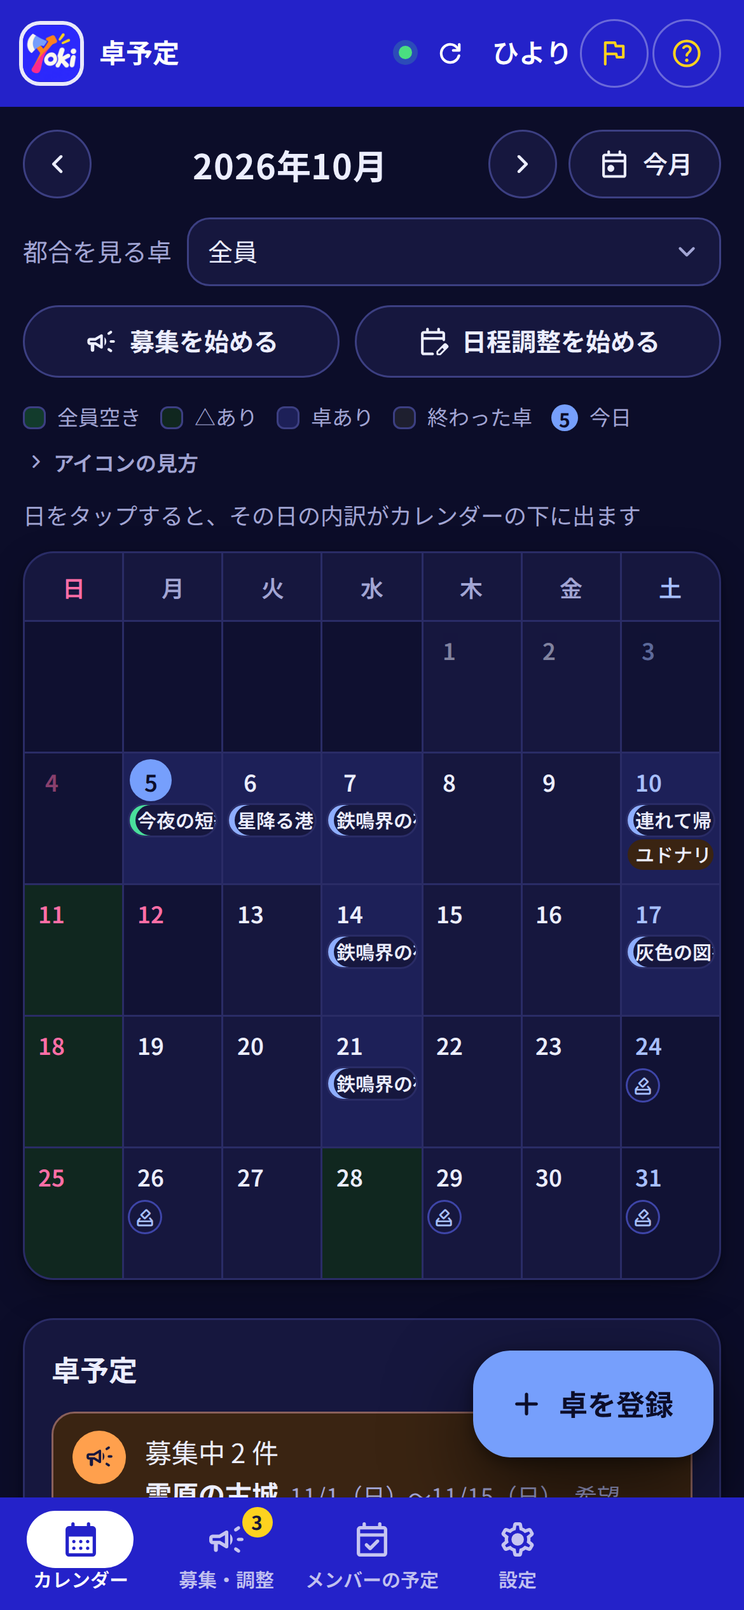
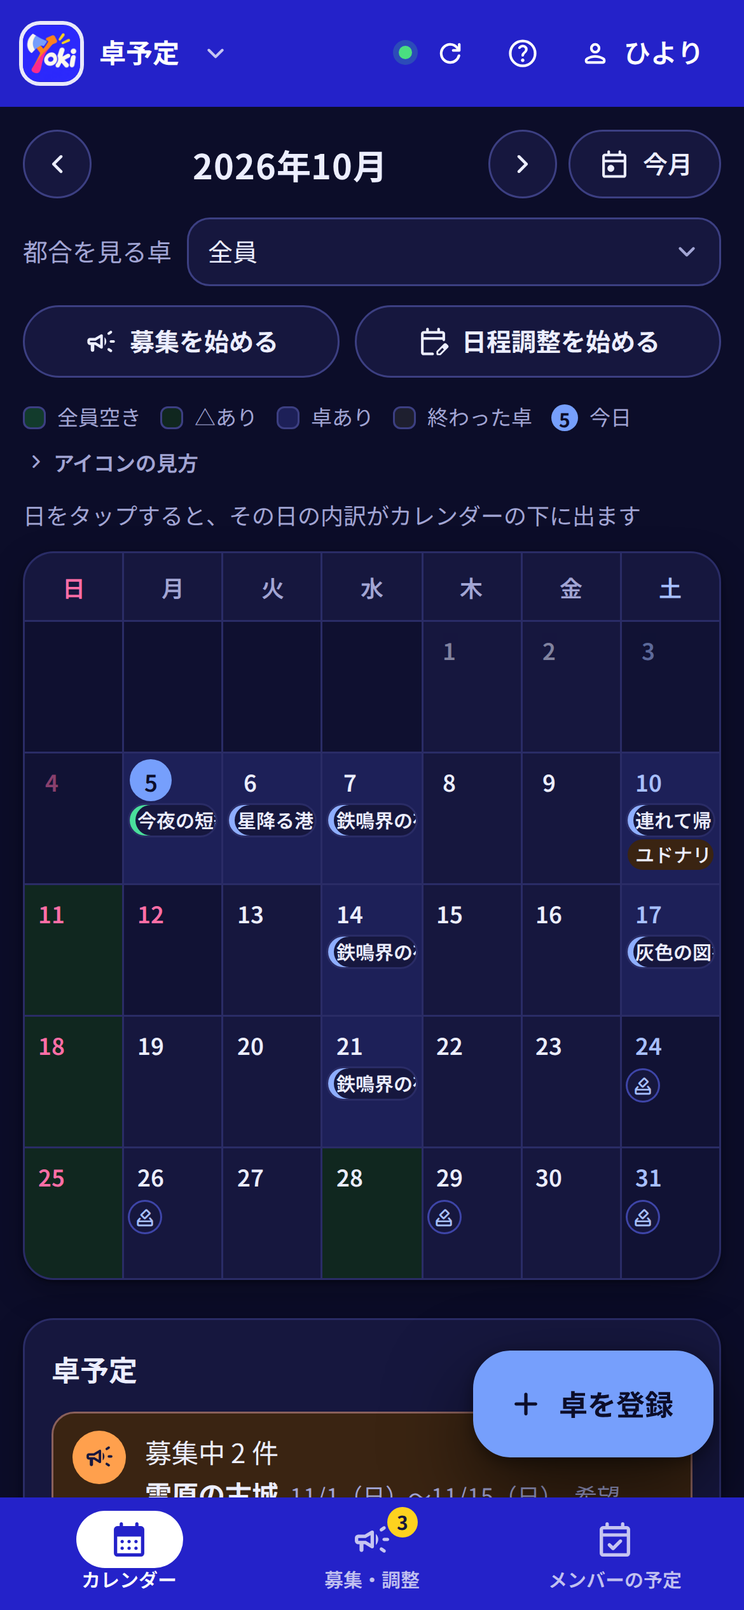
feat(client): 上の帯の操作を、グループ・ヘルプ・あなたの 3 つのメニューにまとめる
- タブはカレンダー・募集・調整・メンバーの予定の 3 つだけにする。画面の切り替え・開け閉め・別の画面へのリンク・外のページへのリンクが、同じ見た目で並んでいたため
- グループの名前を押すと、グループの一覧と管理画面（管理者だけ）が出る
- ヘルプには、はじめの 3 ステップと使い方を入れる。3 ステップが済むまでは、ヘルプのボタンに印を付ける
- 自分の名前を押すと、設定・ライトとダーク・ログアウトが出る。設定の画面を開いているあいだは、押してある見た目にする
- メニューは ui/Menu.tsx の 1 つの部品にする（外を押す・Esc・Tab で閉じる。↑↓・Home・End で項目を移る）
- e2e は、設定・見た目・管理画面への入口をメニューから開くように直し、ヘルプのメニューとはじめの 3 ステップの出し入れを足す
- スクリーンショットを撮り直す

diff --git a/src/client/features/console/shell/Header.tsx b/src/client/features/console/shell/Header.tsx
@@ -1,12 +1,14 @@
-// 上の帯（グループの名前・管理の札・予定の画面へ・読み込んだ時刻と更新・あなた・はじめの 3 ステップ・使い方・見た目・ログアウト）とタブ
+// 上の帯とタブ。帯の操作は、だれのことかで 3 つのメニューにまとめる。
+// グループの名前（グループの一覧・管理画面）、ヘルプ（はじめの 3 ステップ・使い方）、あなた（設定・見た目・ログアウト）。タブはふだんの 3 画面だけ
 import { Link } from '@tanstack/react-router';
 import type { ConsoleData } from '../../../../shared/api';
 import { HELP_URL } from '../../../app/links';
 import { currentTheme, setTheme, themeStore } from '../../../app/theme';
-import { actions, appbar, areaBadge, brand, btxt, hbtn, hbtnIcon, logo } from '../../../ui/chrome';
+import { actions, appbar, areaBadge, brand, btxt, hbtn, hbtnIcon, logo, menuItem, menuSep } from '../../../ui/chrome';
 import { askConfirm } from '../../../ui/confirm';
 import { Icon } from '../../../ui/Icon';
 import type { IconName } from '../../../ui/icons';
+import { Menu } from '../../../ui/Menu';
 import { useStore } from '../../../ui/store';
 import type { SyncView } from '../api/sync';
 import { type Tab, useConsole, useMaybeData } from '../context';
@@ -18,7 +20,6 @@ const TABS: [MainTab, IconName, string][] = [
   ['cal', 'calendar_month', 'カレンダー'],
   ['recruit', 'campaign', '募集・調整'],
   ['avail', 'event_available', 'メンバーの予定'],
-  ['settings', 'settings', '設定'],
 ];
 
 /** 読み込んだ時刻の見た目。前の丸は、自動更新しているあいだは緑、読めなかったら赤。狭い画面では丸だけ */
@@ -42,9 +43,6 @@ const tabBtn = 'relative inline-flex flex-[0_0_auto] cursor-pointer items-center
   + 'max-sm:h-auto max-sm:min-w-0 max-sm:flex-col max-sm:gap-2 max-sm:rounded-none max-sm:px-2 max-sm:pt-4 max-sm:pb-0 max-sm:text-[clamp(10px,2.5vw,12px)] max-sm:bg-transparent! '
   + 'max-sm:before:absolute max-sm:before:top-0 max-sm:before:left-1/2 max-sm:before:-ml-28 max-sm:before:h-30 max-sm:before:w-56 max-sm:before:rounded-[15px] max-sm:before:content-[""] '
   + 'max-sm:before:transition-[background-color] max-sm:before:duration-(--dur-fast) max-sm:before:ease-out ';
-/** タブの並びの続き（はじめの 3 ステップ・管理・使い方）。スマホでは隠す（上の帯のボタンに替える） */
-const tabHelp = 'ml-6 inline-flex h-36 items-center gap-6 whitespace-nowrap rounded-full border border-chrome-field-line px-14 py-0 font-semibold text-chrome-text no-underline '
-  + 'transition-[background-color] duration-(--dur-fast) ease-out hover:bg-chrome-hover max-sm:hidden! ';
 /** 押してある（出している）ときのアイコン（塗りつぶす） */
 const filled = '[font-variation-settings:"FILL"_1]';
 
@@ -59,6 +57,10 @@ export function useLogout(): () => void {
   });
 }
 
+/** グループの名前のボタン（押すとグループのメニュー）。名前が長ければ切る */
+const brandBtn = 'min-w-0 max-w-full cursor-pointer rounded-full border-0 bg-transparent py-2 pr-8 pl-2 -ml-2 text-left font-inherit '
+  + 'transition-[background-color] duration-(--dur-fast) ease-out hover:bg-chrome-hover aria-expanded:bg-chrome-hover';
+
 export function Header({ tab }: { tab: Tab }) {
   const { sync, ui, groupId, area } = useConsole();
   const admin = area === 'admin';
@@ -70,31 +72,37 @@ export function Header({ tab }: { tab: Tab }) {
   const logout = useLogout();
   const dark = currentTheme() === 'dark';
   const shown = d ? guideShown(d, guide) : false;
-  /** 3 つとも済んだら、上の帯の「はじめの 3 ステップ」はアイコンだけにする（目立たせる要がない） */
-  const allDone = !!d && d.members.length > 0 && d.sessions.some(isActive) && !!d.channelSet;
-  /** グループが消された・ログインし直せなかった。タブと、はじめの 3 ステップは出さない（移る先が無い） */
+  /** グループが消された・ログインし直せなかった。タブ・はじめの 3 ステップ・設定は出さない（移る先が無い） */
   const dead = v.phase === 'gone' || v.phase === 'relogin';
+  /** はじめの 3 ステップを出せるのは、ふだんの区域でグループが読めているときだけ */
+  const guideOk = !!d && !admin && !dead;
+  /** 3 つとも済むまでは、？に印を付けて、はじめの 3 ステップがあることを知らせる */
+  const allDone = !!d && d.members.length > 0 && d.sessions.some(isActive) && !!d.channelSet;
+  const nudge = guideOk && !allDone;
   const recruitCount = d ? d.sessions.filter((s) => isRecruit(s) || isAdjusting(s)).length : 0;
-  /* 「はじめの 3 ステップ」ボタン。カレンダーで出ていれば閉じ、それ以外は出す（押すたびに切り替わる）。出したら、ページの頭まで戻す */
+  /* はじめの 3 ステップ。カレンダーで出ていれば閉じ、それ以外は出す（押すたびに切り替わる）。出したら、ページの頭まで戻す */
   const toggleGuide = () => {
     if (tab === 'cal' && shown) { ui.set((s) => ({ ...s, guide: 'closed' })); return; }
     ui.set((s) => ({ ...s, guide: 'open', guideFocus: s.guideFocus + 1 }));
     goTab('cal');
     window.scrollTo(0, 0);
   };
-  const guideProps = {
-    'aria-controls': 'setupGuide',
-    'aria-expanded': shown,
-    title: shown ? 'はじめの 3 ステップを閉じる' : 'はじめの 3 ステップをカレンダーの上に出す',
-    onClick: toggleGuide,
-  };
   return (
     <header className={appbar}>
-      <Link className={brand} to="/" title="グループの一覧へ">
-        <img className={logo} src="/icon-192.png" alt="" width={32} height={32} />
-        <span className="min-w-0 truncate max-sm:text-14" id="title">{d ? d.title : '卓予定'}</span>
-        <span className={areaBadge + (admin ? ' inline-block' : ' hidden')}>管理</span>
-      </Link>
+      {/* グループのこと: グループの一覧へ・管理画面（管理者だけ） */}
+      <Menu id="groupMenu" buttonId="groupMenuBtn" className="relative flex min-w-0 [grid-area:brand]" buttonClass={brand + ' ' + brandBtn} align="start"
+        label={(d ? d.title : '卓予定') + '（グループのメニュー）'} title="グループの一覧・管理画面"
+        button={<>
+          <img className={logo} src="/icon-192.png" alt="" width={32} height={32} />
+          <span className="min-w-0 truncate max-sm:text-14" id="title">{d ? d.title : '卓予定'}</span>
+          <span className={areaBadge + (admin ? ' inline-block' : ' hidden')}>管理</span>
+          <Icon name="expand_more" size="sm" className="shrink-0 text-chrome-muted" />
+        </>}>
+        <Link role="menuitem" id="toGroups" className={menuItem} to="/"><Icon name="group" size="sm" />グループの一覧へ</Link>
+        <Link role="menuitem" id="adminLink" className={menuItem} to="/g/$groupId/admin/" params={{ groupId }} hidden={!d || !d.isAdmin || admin}>
+          <Icon name="shield" size="sm" />グループの管理画面
+        </Link>
+      </Menu>
       <div className={actions}>
         <Link id="toMain" className={hbtn(admin ? 'inline-flex' : 'hidden')} to="/g/$groupId/" params={{ groupId }} title="カレンダーなどの、ふだんの画面へ戻る">
           <Icon name="arrow_back" size="sm" className={hbtnIcon} /><span className={btxt}>予定の画面へ</span>
@@ -105,27 +113,46 @@ export function Header({ tab }: { tab: Tab }) {
             <Icon name="refresh" size="sm" className={hbtnIcon + (v.busy ? ' animate-spin' : '')} /><span className={btxt}>更新</span>
           </button>
         </span>
-        {/* あなたの名前。読み込むまでは出さない（「あなた」だけが残らないように） */}
-        <span className="mx-4 flex items-center gap-6 text-12 text-chrome-muted max-sm:mx-2" hidden={!d}>
-          <span className="max-sm:absolute max-sm:h-1 max-sm:w-1 max-sm:overflow-hidden max-sm:whitespace-nowrap max-sm:[clip:rect(0_0_0_0)]">あなた</span>
-          <b className="max-w-[12em] truncate text-14 font-semibold text-chrome-text max-sm:max-w-[6em]" id="me">{d ? d.me.name : ''}</b>
-        </span>
-        <button type="button" id="guideBtnM" className={hbtn(admin || dead ? 'hidden' : 'hidden max-sm:inline-flex', true) + ' max-sm:border-chrome-field-line max-sm:aria-expanded:border-chrome-active max-sm:aria-expanded:bg-chrome-active'} aria-label="はじめの 3 ステップ" {...guideProps}>
-          <Icon name="flag" size="sm" className={hbtnIcon + (shown ? ' text-chrome-active-ink ' + filled : ' max-sm:text-chrome-accent')} />
-        </button>
-        {/* スマホではアイコンだけ（グループの名前の場所を残す）。隣の「はじめの 3 ステップ」と同じ丸いボタン */}
-        <a id="helpLinkM" className={hbtn(admin ? 'hidden' : 'hidden max-sm:inline-flex', true) + ' max-sm:border-chrome-field-line'} href={HELP_URL} target="_blank" rel="noopener" title="使い方のページを新しいタブで開く" aria-label="使い方（新しいタブで開く）">
-          <Icon name="help" size="sm" className={hbtnIcon + ' max-sm:text-chrome-accent'} />
-        </a>
-        <button type="button" id="theme" className={hbtn('inline-flex', true) + ' ' + btxt} title="ライト／ダークを切り替える（このブラウザだけ）" aria-label={dark ? 'ライトに切り替える' : 'ダークに切り替える'} onClick={() => setTheme(dark ? 'light' : 'dark')}>
-          <Icon name={dark ? 'light_mode' : 'dark_mode'} size="sm" className={hbtnIcon} />
-        </button>
-        <button type="button" id="logoutBtn" className={hbtn('inline-flex', true) + ' ' + btxt} hidden={!d} title="ログアウト" aria-label="ログアウト" onClick={logout}><Icon name="logout" size="sm" className={hbtnIcon} /></button>
+        {/* 手引き: はじめの 3 ステップ・使い方。済んでいない準備があるあいだは、印を付ける */}
+        <Menu id="helpMenu" buttonId="helpBtn" buttonClass={hbtn() + ' relative max-sm:w-(--h-control) max-sm:p-0'}
+          label={nudge ? 'ヘルプ（はじめの 3 ステップが残っています）' : 'ヘルプ'} title={nudge ? 'はじめの 3 ステップ・使い方（済んでいない準備があります）' : 'はじめの 3 ステップ・使い方'}
+          button={<>
+            <Icon name="help" size="sm" className={hbtnIcon} /><span className={btxt}>ヘルプ</span>
+            <span className={'absolute top-4 right-4 h-8 w-8 rounded-full bg-chrome-accent ' + (nudge ? 'block' : 'hidden')} id="helpNudge" />
+          </>}>
+          <button type="button" role="menuitem" id="guideBtn" className={menuItem} hidden={!guideOk} aria-controls="setupGuide" onClick={toggleGuide}>
+            <Icon name="flag" size="sm" className="text-accent-text" />{tab === 'cal' && shown ? 'はじめの 3 ステップを閉じる' : 'はじめの 3 ステップ'}
+          </button>
+          <a role="menuitem" id="helpLink" className={menuItem} href={HELP_URL} target="_blank" rel="noopener">
+            <Icon name="menu_book" size="sm" />使い方<Icon name="open_in_new" size="xs" className="ml-auto text-muted" />
+          </a>
+        </Menu>
+        {/* あなたのこと: 設定（名前・この端末）・見た目・ログアウト。設定を開いているあいだは、押してある見た目 */}
+        <Menu id="meMenu" buttonId="meBtn" active={tab === 'settings'}
+          buttonClass={hbtn() + ' gap-6 max-sm:px-8 data-active:bg-chrome-active data-active:text-chrome-active-ink'}
+          label={d ? 'あなた（' + d.me.name + '）のメニュー' : 'あなたのメニュー'} title="設定・見た目・ログアウト"
+          button={<>
+            <Icon name="person" size="sm" className={hbtnIcon + ' sm:hidden'} />
+            <span className="text-12 font-normal opacity-80 max-sm:hidden">あなた</span>
+            <b className="max-w-[12em] truncate text-14 font-semibold max-sm:max-w-[6em]" id="me" hidden={!d}>{d ? d.me.name : ''}</b>
+            <Icon name="expand_more" size="sm" className={hbtnIcon + ' opacity-80 max-sm:hidden'} />
+          </>}>
+          <button type="button" role="menuitem" id="toSettings" className={menuItem} hidden={dead} onClick={() => goTab('settings')}>
+            <Icon name="settings" size="sm" />設定（名前・この端末）
+          </button>
+          <button type="button" role="menuitem" id="theme" className={menuItem} title="このブラウザだけ" onClick={() => setTheme(dark ? 'light' : 'dark')}>
+            <Icon name={dark ? 'light_mode' : 'dark_mode'} size="sm" />{dark ? 'ライトにする' : 'ダークにする'}
+          </button>
+          <div className={menuSep} hidden={!d} aria-hidden="true" />
+          <button type="button" role="menuitem" id="logoutBtn" className={menuItem} hidden={!d} onClick={logout}>
+            <Icon name="logout" size="sm" />ログアウト
+          </button>
+        </Menu>
       </div>
       {/* tabs は e2e が探す印。管理画面と、グループが消された・ログインし直せなかったときは出さない */}
       <nav className={'tabs -mx-6 min-w-0 items-center gap-2 overflow-x-auto px-6 [grid-area:tabs] [scrollbar-width:none] [&::-webkit-scrollbar]:hidden '
         + (admin || dead ? 'hidden! ' : 'flex ')
-        + 'max-sm:fixed max-sm:inset-x-0 max-sm:bottom-0 max-sm:z-(--z-appbar) max-sm:m-0 max-sm:grid max-sm:grid-cols-5 max-sm:gap-0 max-sm:overflow-visible max-sm:border-t max-sm:border-chrome-line max-sm:bg-chrome '
+        + 'max-sm:fixed max-sm:inset-x-0 max-sm:bottom-0 max-sm:z-(--z-appbar) max-sm:m-0 max-sm:grid max-sm:grid-cols-3 max-sm:gap-0 max-sm:overflow-visible max-sm:border-t max-sm:border-chrome-line max-sm:bg-chrome '
         + 'max-sm:pt-6 max-sm:pr-[max(4px,env(safe-area-inset-right))] max-sm:pb-[max(8px,env(safe-area-inset-bottom))] max-sm:pl-[max(4px,env(safe-area-inset-left))]'} aria-label="画面">
         {TABS.map(([key, icon, label]) => (
           <button type="button" key={key} data-tab={key} className={tabBtn + (tab === key ? 'bg-chrome-active text-chrome-active-ink max-sm:text-chrome-text max-sm:before:bg-chrome-active' : 'bg-transparent text-chrome-muted hover:bg-chrome-hover hover:text-chrome-text max-sm:before:bg-transparent')} aria-current={tab === key ? 'page' : undefined} onClick={() => goTab(key)}>
@@ -137,16 +164,6 @@ export function Header({ tab }: { tab: Tab }) {
             )}
           </button>
         ))}
-        <button type="button" id="guideBtn" className={tabHelp + 'relative flex-[0_0_auto] cursor-pointer bg-transparent font-inherit aria-expanded:border-chrome-active aria-expanded:bg-chrome-active aria-expanded:text-chrome-active-ink max-xl:px-11'} aria-label="はじめの 3 ステップ" {...guideProps}>
-          <Icon name="flag" className={shown ? 'text-chrome-active-ink ' + filled : 'text-chrome-accent'} /><span className={allDone ? 'hidden' : 'max-xl:hidden'}>はじめの 3 ステップ</span>
-        </button>
-        {/* タブの並びに入りきらない幅（タブレット）では、管理と使い方はアイコンだけにする */}
-        <Link id="adminLink" className={tabHelp + 'max-tab:px-11'} to="/g/$groupId/admin/" params={{ groupId }} hidden={!d || !d.isAdmin} title="グループの管理画面を開く（管理者だけ）" aria-label="管理">
-          <Icon name="shield" className="text-chrome-accent" /><span className="max-tab:hidden">管理</span>
-        </Link>
-        <a id="helpLink" className={tabHelp + 'max-tab:px-11'} href={HELP_URL} target="_blank" rel="noopener" title="使い方のページを新しいタブで開く" aria-label="使い方（新しいタブで開く）">
-          <Icon name="help" className="text-chrome-accent" /><span className="max-tab:hidden">使い方</span><Icon name="open_in_new" size="xs" className="text-chrome-muted max-tab:hidden" />
-        </a>
       </nav>
     </header>
   );

diff --git a/test/e2e/smoke.js b/test/e2e/smoke.js
@@ -16,9 +16,10 @@ await withDevServer(async (base) => {
   const D = () => page.evaluate(() => window.yoki.D);
   /** 画面のデータが条件を満たすまで待つ（fn はブラウザの中で D と arg を受け取る） */
   const until = (fn, arg) => page.waitForFunction(`(${fn})(window.yoki.D, ${JSON.stringify(arg ?? null)})`, null, { timeout: 15000 });
-  /** タブを押して、タブの中身が出るのを待つ（中身はあとから読み込んで描くことがある） */
+  /** タブを押して、タブの中身が出るのを待つ（中身はあとから読み込んで描くことがある）。設定はタブでなく、あなたのメニューから開く */
   const tab = async (name) => {
-    await page.click(`nav.tabs button[data-tab=${name}]`);
+    if (name === 'settings') { await page.click('#meBtn'); await page.click('#toSettings'); }
+    else await page.click(`nav.tabs button[data-tab=${name}]`);
     await page.waitForSelector(`#tab-${name}`, { state: 'visible', timeout: 15000 });
   };
   /** グループの管理画面を開き、区分を選ぶ */
@@ -54,9 +55,19 @@ await withDevServer(async (base) => {
         assert.equal(await page.getAttribute('body', 'data-tab'), t);
       }
       const before = await page.evaluate(() => document.documentElement.getAttribute('data-theme'));
+      await page.click('#meBtn');
       await page.click('#theme');
       assert.notEqual(await page.evaluate(() => document.documentElement.getAttribute('data-theme')), before);
+      assert.equal(await page.isVisible('#meMenu'), false, '選んだらメニューは閉じる');
+      await page.click('#meBtn');
       await page.click('#theme');
+      await page.click('#helpBtn');
+      assert.equal(await page.isVisible('#helpLink'), true, 'ヘルプのメニューに使い方がある');
+      await page.click('#guideBtn');
+      await page.waitForSelector('#setupGuide', { state: 'visible', timeout: 15000 });
+      await page.click('#helpBtn');
+      await page.click('#guideBtn');
+      await page.waitForSelector('#setupGuide', { state: 'hidden', timeout: 15000 });
     });
 
     await step('カレンダーで日を選ぶと内訳が出て、月を送れる', async () => {
@@ -248,7 +259,10 @@ await withDevServer(async (base) => {
       await page.click('#toMain');
       await page.waitForURL('**/g/sample/');
       await page.waitForFunction(() => window.yoki && window.yoki.D, null, { timeout: 30000 });
-      assert.equal(await page.isVisible('#adminLink'), true, '管理者には管理画面への入口が出る');
+      await page.click('#groupMenuBtn');
+      assert.equal(await page.isVisible('#adminLink'), true, '管理者には、グループのメニューに管理画面への入口が出る');
+      await page.keyboard.press('Escape');
+      assert.equal(await page.isVisible('#groupMenu'), false, 'Esc でメニューが閉じる');
     });
 
     await step('「あなた」はログインした人で、ほかの人には切り替えられない', async () => {
@@ -287,11 +301,15 @@ await withDevServer(async (base) => {
       const sora = await ctx.newPage();
       sora.on('pageerror', (e) => errors.push(e.message));
       await devLogin(sora, base, 'ソラ');
+      await sora.click('#groupMenuBtn');
+      assert.equal(await sora.isVisible('#toGroups'), true);
       assert.equal(await sora.isVisible('#adminLink'), false);
+      await sora.keyboard.press('Escape');
       assert.equal((await sora.goto(base + 'g/sample/admin/')).status(), 403);
       await sora.goto(base + 'g/sample/');
       await sora.waitForFunction(() => window.yoki && window.yoki.D, null, { timeout: 30000 });
-      await sora.click('nav.tabs button[data-tab=settings]');
+      await sora.click('#meBtn');
+      await sora.click('#toSettings');
       assert.equal(await sora.isVisible('#adminEntry'), false);
       await sora.fill('#meNote', 'e2e の備考');
       await sora.click('#meSave');
@@ -346,7 +364,7 @@ await withDevServer(async (base) => {
       await until((d) => !d.members.some((m) => m.name === 'ソラ'));
     });
 
-    await step('運営の管理画面: 規約の運営者・問い合わせ先・本文を直すと、/terms に出る。入口と設定タブから開ける', async () => {
+    await step('運営の管理画面: 規約の運営者・問い合わせ先・本文を直すと、/terms に出る。入口と設定の画面から開ける', async () => {
       await page.goto(base + 'admin/#legal');
       // 欄は画面を描いてから出るので、出るのも待つ
       await page.waitForFunction(() => document.getElementById('lgTerms')?.value.includes('本サービス'), null, { timeout: 15000 });
@@ -374,7 +392,7 @@ await withDevServer(async (base) => {
       await page.waitForSelector('.foot a[href="/terms"]', { timeout: 15000 });
       await main();
       await tab('settings');
-      assert.equal(await page.isVisible('#tab-settings a[href="/privacy"]'), true, '設定タブにリンクがある');
+      assert.equal(await page.isVisible('#tab-settings a[href="/privacy"]'), true, '設定の画面にリンクがある');
     });
 
     await step('狭い画面では日ごとのリストで印を打てる', async () => {

diff --git a/src/client/ui/Menu.tsx b/src/client/ui/Menu.tsx
@@ -1,0 +1,77 @@
+// 帯のメニュー。ボタンを押すと、下に項目の一覧が開く。
+// 外を押す・Esc・Tab・項目を選ぶと閉じる。開いたら最初の項目へ、Esc で閉じたら開いたボタンへフォーカスを移す。↑↓・Home・End で項目を移る。
+// 一覧は描いたまま hidden で開け閉めする（中の項目の ID は、e2e とスクリーンショットの道具が使う）
+import { type KeyboardEvent, type ReactNode, useEffect, useRef, useState } from 'react';
+import { menuPanel } from './chrome';
+
+/** 一覧の中の、いま選べる項目（hidden の項目は飛ばす） */
+function items(panel: HTMLElement): HTMLElement[] {
+  return Array.from(panel.querySelectorAll<HTMLElement>('[role="menuitem"]')).filter((el) => !el.closest('[hidden]'));
+}
+
+export function Menu({ id, buttonId, buttonClass, label, title, align = 'end', active, className = 'relative inline-flex', children, button }: {
+  /** 一覧の ID */
+  id: string;
+  /** 開くボタンの ID */
+  buttonId: string;
+  buttonClass: string;
+  /** 開くボタンの読み上げ名 */
+  label: string;
+  title?: string;
+  /** 一覧をボタンのどちらの端にそろえるか */
+  align?: 'start' | 'end';
+  /** ボタンを押してある見た目にする（メニューの先の画面を開いているとき） */
+  active?: boolean;
+  /** ボタンと一覧を包む要素のクラス（一覧の位置の基準になるので relative を含める） */
+  className?: string;
+  /** 一覧の項目。押せるものには role="menuitem" を付ける */
+  children: ReactNode;
+  /** ボタンの中身 */
+  button: ReactNode;
+}) {
+  const [open, setOpen] = useState(false);
+  const wrap = useRef<HTMLSpanElement>(null);
+  const panel = useRef<HTMLDivElement>(null);
+  const btn = useRef<HTMLButtonElement>(null);
+
+  /* 開いたら最初の項目へ。外を押したら閉じる */
+  useEffect(() => {
+    if (!open) return;
+    if (panel.current) items(panel.current)[0]?.focus({ preventScroll: true });
+    const onDown = (ev: PointerEvent) => { if (wrap.current && !wrap.current.contains(ev.target as Node)) setOpen(false); };
+    document.addEventListener('pointerdown', onDown);
+    return () => document.removeEventListener('pointerdown', onDown);
+  }, [open]);
+
+  const close = (refocus: boolean) => { setOpen(false); if (refocus) btn.current?.focus({ preventScroll: true }); };
+  const onPanelKey = (ev: KeyboardEvent<HTMLDivElement>) => {
+    if (!panel.current) return;
+    const list = items(panel.current);
+    const at = list.indexOf(document.activeElement as HTMLElement);
+    const move = (i: number) => { ev.preventDefault(); list[(i + list.length) % list.length]?.focus(); };
+    if (ev.key === 'ArrowDown') move(at + 1);
+    else if (ev.key === 'ArrowUp') move(at - 1);
+    else if (ev.key === 'Home') move(0);
+    else if (ev.key === 'End') move(list.length - 1);
+    else if (ev.key === 'Escape') { ev.preventDefault(); close(true); }
+    else if (ev.key === 'Tab') close(false);
+  };
+
+  return (
+    <span className={className} ref={wrap}>
+      <button type="button" id={buttonId} ref={btn} className={buttonClass} aria-haspopup="menu" aria-expanded={open} aria-controls={id} aria-label={label} title={title}
+        data-active={active ? '' : undefined}
+        onClick={() => setOpen((o) => !o)}
+        onKeyDown={(ev) => { if (ev.key === 'ArrowDown' && !open) { ev.preventDefault(); setOpen(true); } }}>
+        {button}
+      </button>
+      {/* 項目を押したら閉じる（項目の動きはそれぞれの onClick・リンクが受け持つ） */}
+      <div id={id} ref={panel} role="menu" aria-label={label} hidden={!open} tabIndex={-1}
+        className={menuPanel + (align === 'start' ? ' left-0' : ' right-0')}
+        onKeyDown={onPanelKey}
+        onClick={(ev) => { if ((ev.target as Element).closest('[role="menuitem"]')) close(false); }}>
+        {children}
+      </div>
+    </span>
+  );
+}

diff --git a/src/client/ui/chrome.ts b/src/client/ui/chrome.ts
@@ -22,6 +22,12 @@ export function hbtn(display = 'inline-flex', icon = false): string {
 export const hbtnIcon = 'align-[0]';
 /** ボタンの字（スマホでは隠して、アイコンだけにする） */
 export const btxt = 'max-sm:hidden!';
+/** 帯のメニューの一覧（Menu）。青い帯の上に、カードの色で出す。左右の寄せは Menu が足す */
+export const menuPanel = 'absolute top-[calc(100%+6px)] z-(--z-pop) flex min-w-220 animate-fade-in flex-col gap-2 rounded-md border border-line bg-card p-6 text-fg shadow-pop [&_:focus-visible]:outline-accent';
+/** メニューの項目 */
+export const menuItem = 'flex h-40 w-full cursor-pointer items-center gap-10 whitespace-nowrap rounded-sm border-0 bg-transparent px-10 text-left font-inherit text-14 font-semibold text-fg no-underline hover:bg-hover focus-visible:bg-hover';
+/** メニューの区切り線 */
+export const menuSep = 'my-4 border-t border-line';
 /** 本文。開いたときに、中の区分をそっと出す。スマホでは下のタブの分を空ける（カレンダーは「卓を登録」の丸いボタンの分も） */
 export function mainArea(bottom: 'tabs' | 'cal' = 'tabs'): string {
   return 'mx-auto max-w-1440 pt-20 pb-48 pr-[max(20px,env(safe-area-inset-right))] pl-[max(20px,env(safe-area-inset-left))] [&>section:not([hidden])]:animate-fade-in '
